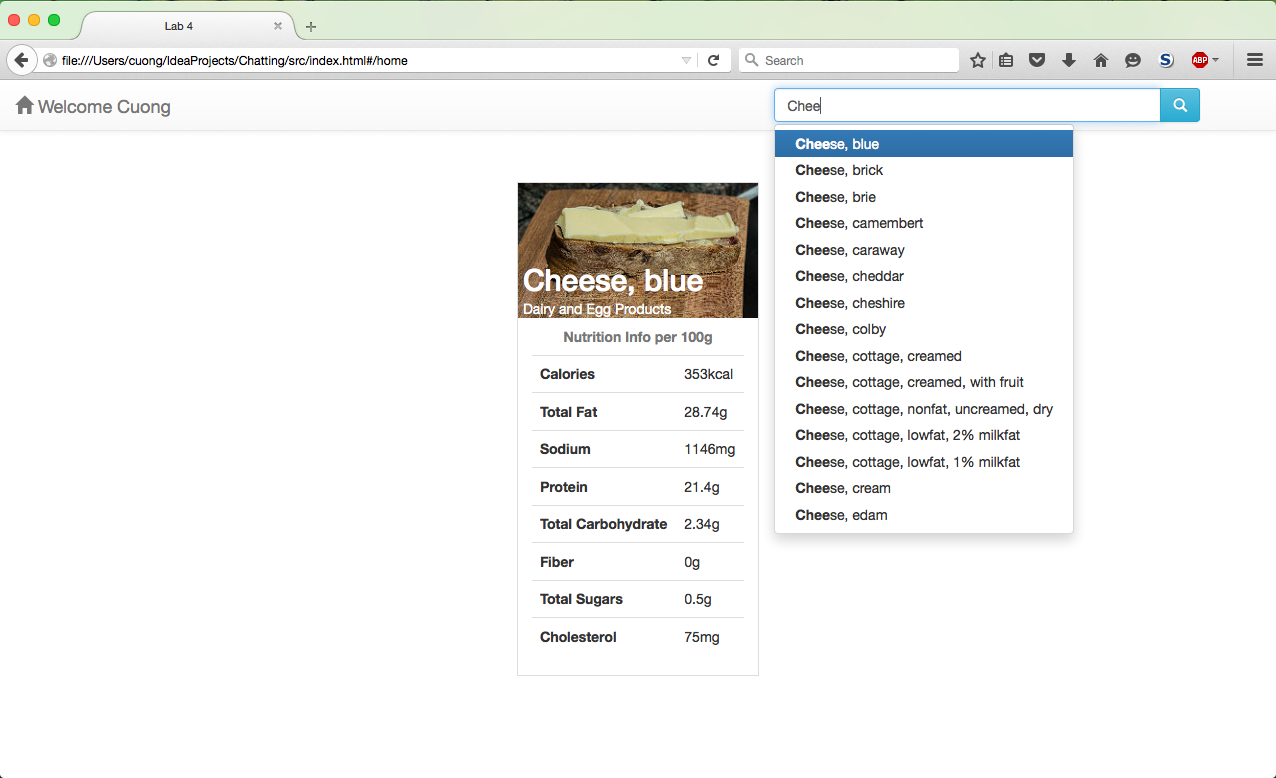
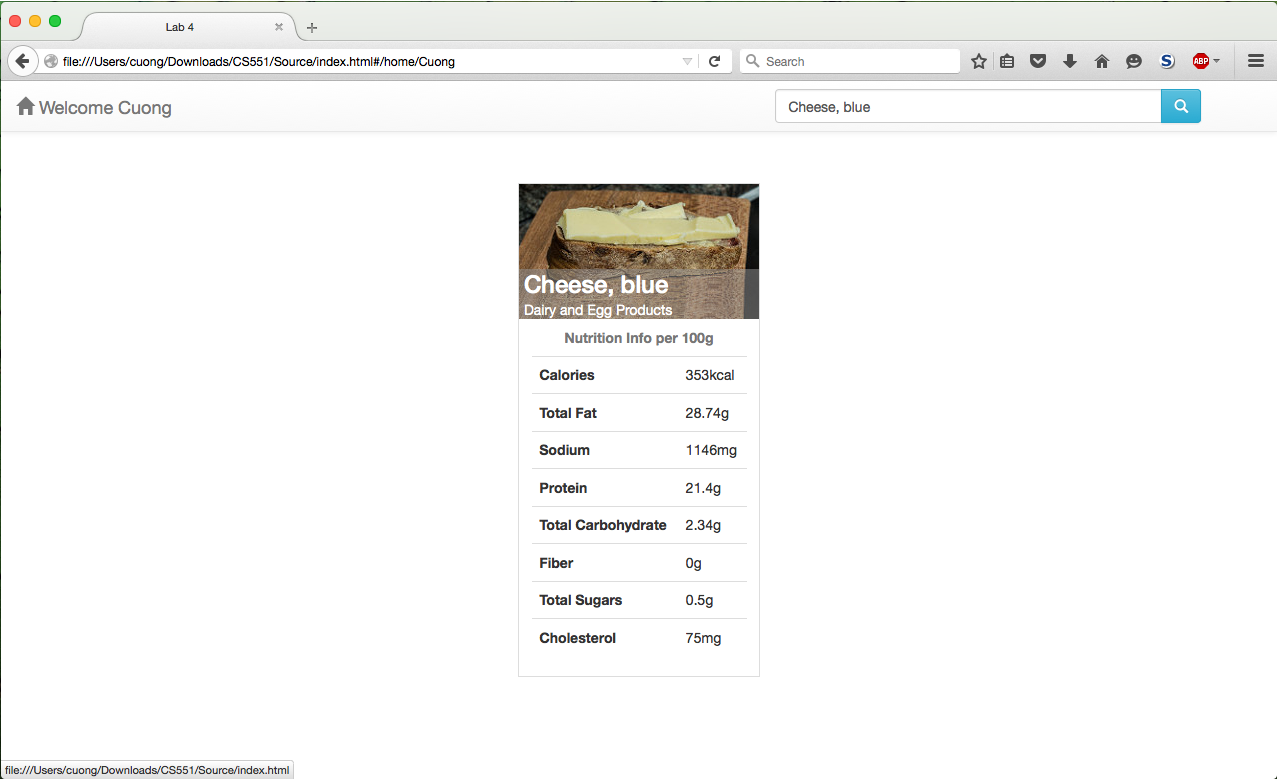
Lab 4

diff --git a/Source/js/main.js b/Source/js/main.js
@@ -93,7 +93,7 @@
                             format: "json"
                         },
                         function(data) {
-                            var imgIdx = 3;
+                            var imgIdx = 5;
 
                             $('#cardHeader').css('background-image', "url('" + data.items[imgIdx].media.m + "')");
                             $('#imageHeader').attr('src', data.items[imgIdx].media.m);
